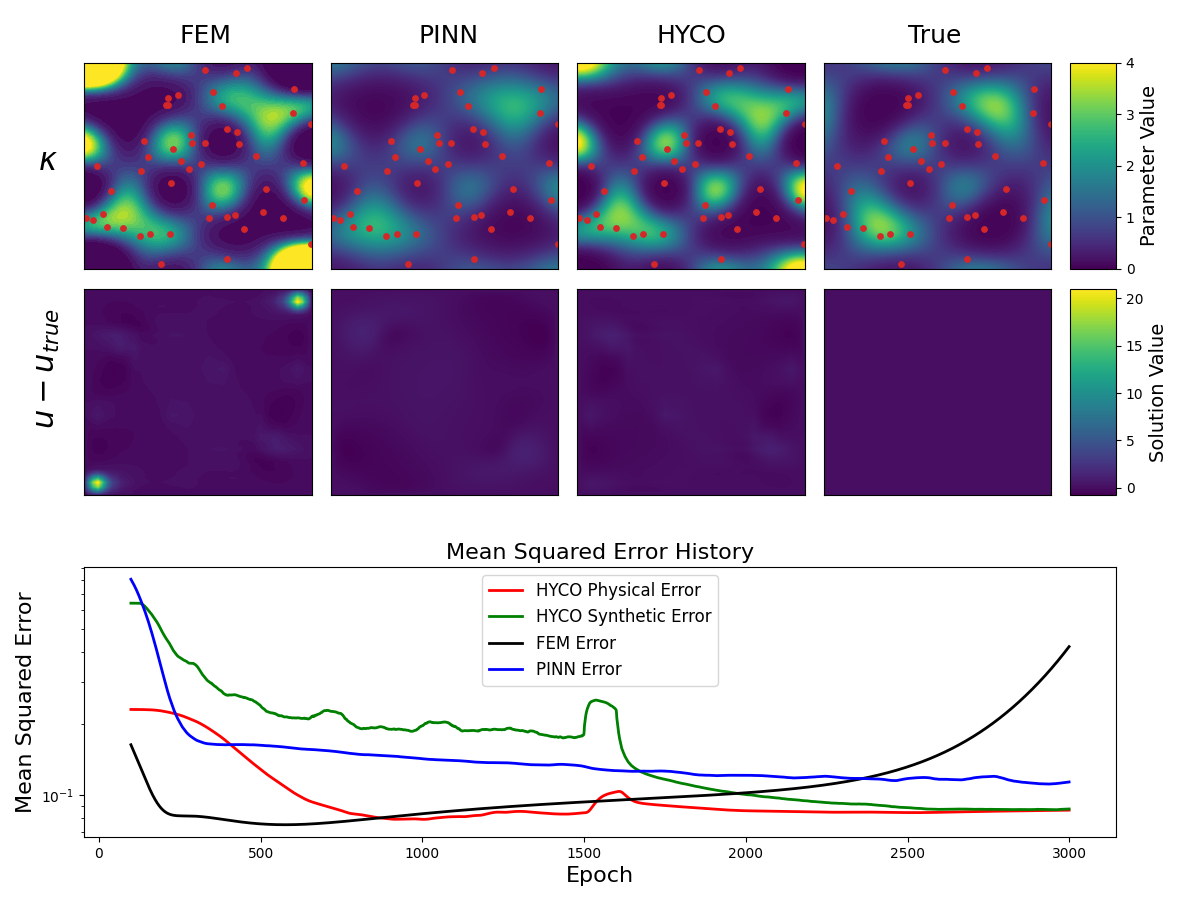
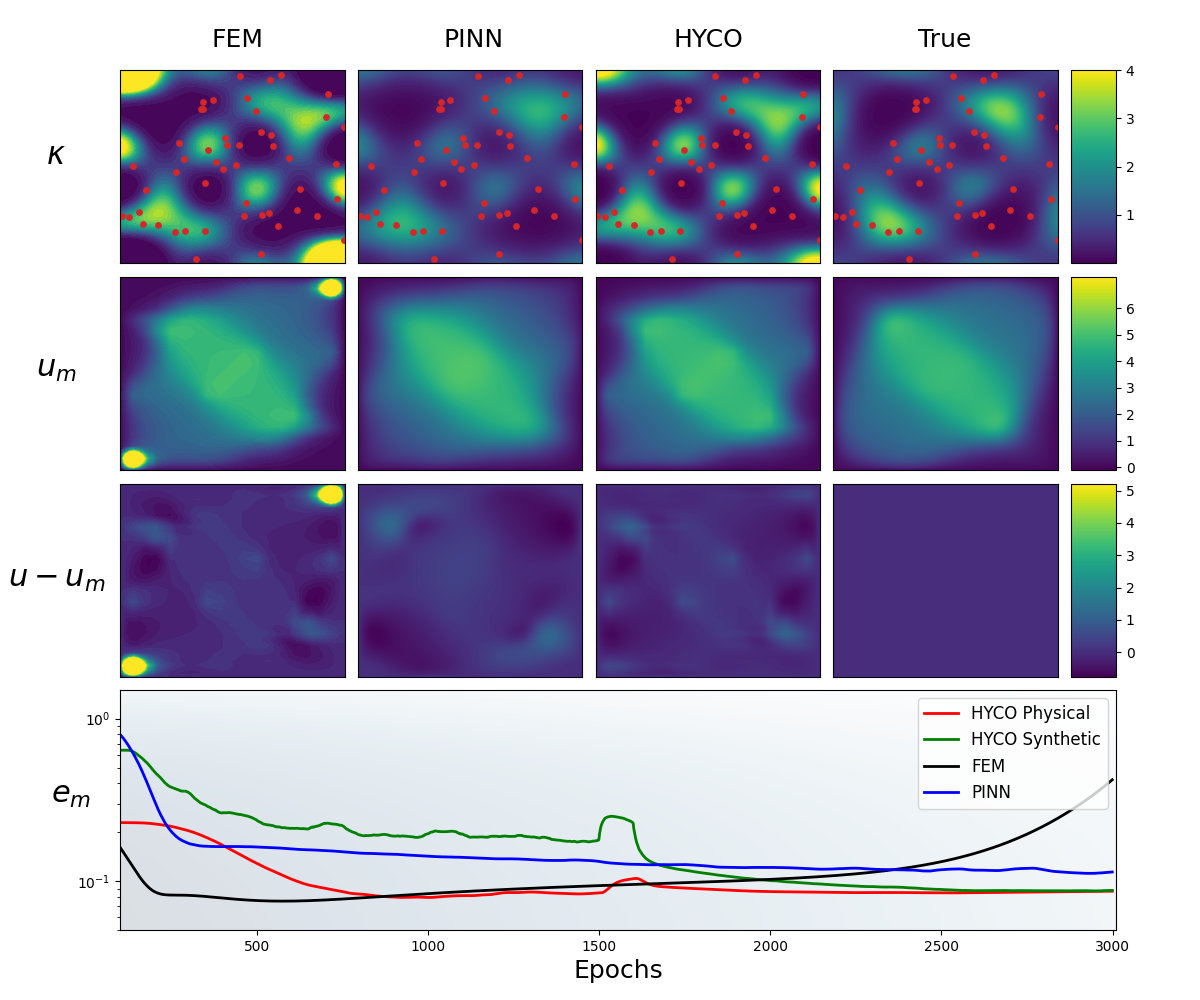
Improved plotting

diff --git a/src/tools/plotting.py b/src/tools/plotting.py
@@ -77,9 +77,9 @@ def plot(
         # Create figure layout: 4 columns for predictions + a colorbar.
         fig = plt.figure(figsize=(12, 12))
         gs_top = fig.add_gridspec(
-            3, 5, width_ratios=[1, 1, 1, 1, 0.2],
-            left=0.10, right=0.93, top=0.93, bottom=0.45,
-            wspace=0.1, hspace=0.1
+            4, 5, width_ratios=[1, 1, 1, 1, 0.2],
+            left=0.10, right=0.93, top=0.93, bottom=0.27,
+            wspace=0.07, hspace=0.07
         )
 
         # Row 1: Kappa plots.
@@ -139,49 +139,84 @@ def plot(
             
         N = int(np.sqrt(u_hyb_phys.shape[0]))
         sol = [N, N]
+        vmin_sol = min((u_hyb_phys).min(), (u_fem).min(), (u_pinn).min())
+        vmax_sol = max((u_hyb_phys).max(), (u_fem).max(), (u_pinn).max())
         vmin_err = min((u_hyb_phys - u_true).min(), (u_fem - u_true).min(), (u_pinn - u_true).min())
         vmax_err = max((u_hyb_phys - u_true).max(), (u_fem - u_true).max(), (u_pinn - u_true).max())
         xx = jnp.linspace(domain[0], domain[1], N)
         yy = jnp.linspace(domain[0], domain[1], N)
         # Plot the solutions 
         ax8 = fig.add_subplot(gs_top[2, 0])
-        cf8 = ax8.contourf(xx, yy, u_fem.reshape(sol) - u_true.reshape(sol), levels=100,
-                                vmin=vmin_err, vmax=vmax_err, cmap="viridis")
+        cf8 = ax8.contourf(xx, yy, u_fem.reshape(sol), levels=100,
+                                vmin=vmin_sol, vmax=vmax_sol, cmap="viridis")
         ax8.set_xticks([])
         ax8.set_yticks([])
 
         ax9 = fig.add_subplot(gs_top[2, 1])
-        cf9 = ax9.contourf(xx, yy, u_pinn.reshape(sol) - u_true.reshape(sol), levels=100,
-                                vmin=vmin_err, vmax=vmax_err, cmap="viridis")
+        cf9 = ax9.contourf(xx, yy, u_pinn.reshape(sol), levels=100,
+                                vmin=vmin_sol, vmax=vmax_sol, cmap="viridis")
         ax9.set_xticks([])
         ax9.set_yticks([])
 
         ax10 = fig.add_subplot(gs_top[2, 2])
-        cf10 = ax10.contourf(xx, yy, u_hyb_phys.reshape(sol) - u_true.reshape(sol), levels=100,
-                                vmin=vmin_err, vmax=vmax_err, cmap="viridis")
+        cf10 = ax10.contourf(xx, yy, u_hyb_phys.reshape(sol), levels=100,
+                                vmin=vmin_sol, vmax=vmax_sol, cmap="viridis")
         ax10.set_xticks([])
         ax10.set_yticks([])
 
         ax11 = fig.add_subplot(gs_top[2, 3])
-        cf11 = ax11.contourf(xx, yy, (u_true.reshape(sol) - u_true.reshape(sol)), levels=100,
-                                vmin=vmin_err, vmax=vmax_err, cmap="viridis")
+        cf11 = ax11.contourf(xx, yy, (u_true.reshape(sol)), levels=100,
+                                vmin=vmin_sol, vmax=vmax_sol, cmap="viridis")
         ax11.set_xticks([])
         ax11.set_yticks([])
-        
+
+        ax12 = fig.add_subplot(gs_top[3, 0])
+        cf12 = ax12.contourf(xx, yy, u_fem.reshape(sol) - u_true.reshape(sol), levels=100,
+                                vmin=vmin_err, vmax=vmax_err, cmap="viridis")
+        ax12.set_xticks([])
+        ax12.set_yticks([])
+
+        ax13 = fig.add_subplot(gs_top[3, 1])
+        cf13 = ax13.contourf(xx, yy, u_pinn.reshape(sol) - u_true.reshape(sol), levels=100,
+                                vmin=vmin_err, vmax=vmax_err, cmap="viridis")
+        ax13.set_xticks([])
+        ax13.set_yticks([])
+
+        ax14 = fig.add_subplot(gs_top[3, 2])
+        cf14 = ax14.contourf(xx, yy, u_hyb_phys.reshape(sol) - u_true.reshape(sol), levels=100,
+                                vmin=vmin_err, vmax=vmax_err, cmap="viridis")
+        ax14.set_xticks([])
+        ax14.set_yticks([])
+
+        ax15 = fig.add_subplot(gs_top[3, 3])
+        cf15 = ax15.contourf(xx, yy, (u_true.reshape(sol) - u_true.reshape(sol)), levels=100,
+                                vmin=vmin_err, vmax=vmax_err, cmap="viridis")
+        ax15.set_xticks([])
+        ax15.set_yticks([])
+
         # Add a unified colorbar for gaussians
         ax_cb = fig.add_subplot(gs_top[:2, 4])
         norm = Normalize(vmin=vmin, vmax=vmax)
         mappable = ScalarMappable(norm=norm, cmap="viridis")
         mappable.set_array([])
         cb = fig.colorbar(mappable, cax=ax_cb)
+        cb.set_ticks([1.0, 2.0, 3.0, 4.0, 5.0])
 
         # Add a unified colorbar for solutions
         
         ax_cb = fig.add_subplot(gs_top[2:3, 4])
+        norm = Normalize(vmin=vmin_sol, vmax=vmax_sol)
+        mappable = ScalarMappable(norm=norm, cmap="viridis")
+        mappable.set_array([])
+        cb = fig.colorbar(mappable, cax=ax_cb)
+        cb.set_ticks([-1.0, 0.0, 1.0, 2.0])
+
+        ax_cb = fig.add_subplot(gs_top[3:4, 4])
         norm = Normalize(vmin=vmin_err, vmax=vmax_err)
         mappable = ScalarMappable(norm=norm, cmap="viridis")
         mappable.set_array([])
         cb = fig.colorbar(mappable, cax=ax_cb)
+        cb.set_ticks([0, 1])
 
         #  u'#1f77b4', u'#ff7f0e', u'#2ca02c', u'#d62728'
 
@@ -217,7 +252,10 @@ def plot(
             
             window = 100
             # Plot the loss history.
-            ax_loss = fig.add_axes([0.07, 0.07, 0.86, 0.3])
+            ax_loss = fig.add_axes([0.1, 0.07, 0.83, 0.191])
+            gradient = np.linspace(1, 0.6, 256)  # from white to light blue
+            gradient = np.outer(gradient, gradient)  # diagonal fade
+            
             x_hyb, avg_hyb, std_hyb = moving_avg_std(hyb_phys_loss_hist, window=window)
             ax_loss.plot(x_hyb, avg_hyb, label="HYCO Physical", color = 'red', lw = 2)
 
@@ -231,7 +269,8 @@ def plot(
             x_pinn, avg_pinn, std_pinn = moving_avg_std(pinn_loss_hist, window=window)
             ax_loss.plot(x_pinn, avg_pinn, label="PINN", color = 'blue', lw = 2)
             # ax_loss.fill_between(x_synth, avg_synth - std_synth, avg_synth + std_synth, alpha=0.3)
-
+            ax_loss.imshow(gradient, extent = [100, 3010, 0.05, 1.5], aspect='auto', cmap='Blues', origin='lower', zorder=0, alpha = 0.1)
+            ax_loss.imshow(gradient, extent = [100, 3010, 0.05, 1.5], aspect='auto', cmap='Grays', origin='lower', zorder=0, alpha = 0.05)
             # set yrange to not be too far from the average
             avg_min = min(avg_phys.min(), avg_pinn.min(), avg_hyb.min(), avg_synth.min())
             avg_max = max(avg_phys.max(), avg_pinn.max(), avg_hyb.max(), avg_synth.max())
@@ -240,19 +279,20 @@ def plot(
 
             ax_loss.set_yscale("log")
             ax_loss.set_xlabel("Epochs", fontsize=18)
-            ax_loss.set_ylabel(r"Normalized L2 Error $e_m$", fontsize=18)
-            ax_loss.legend(fontsize=12)
+            ax_loss.set_ylabel(r"$e_m$", fontsize=22, rotation=0)
+            ax_loss.legend(fontsize=12, loc='upper right')
 
             # Add column labels (above the grid).
             # The grid spans from left=0.07 to right=0.93 (width = 0.86). We split this into 4 columns.
-            col_centers = [0.07 + 0.81 * (i + 0.5) / 4 for i in range(4)]
+            col_centers = [0.1 + 0.785 * (i + 0.5) / 4 for i in range(4)]
             for label, x_pos in zip(["FEM", "PINN", "HYCO", "True"], col_centers):
                 fig.text(x_pos, 0.96, label, ha="center", va="center", fontsize=18)
 
             # Add row labels on the left (at fixed positions).
-            fig.text(0.015, 0.86, r"$\kappa$", ha="center", va="center", fontsize=22)
-            fig.text(0.015, 0.69, r"$\eta$", ha="center", va="center", fontsize=22)
-            fig.text(0.015, 0.525, r"$u - u_{true}$", ha="center", va="center", fontsize=22, rotation=90)
+            fig.text(0.047, 0.845, r"$\kappa$", ha="center", va="center", fontsize=22)
+            fig.text(0.047, 0.685, r"$\eta$", ha="center", va="center", fontsize=22)
+            fig.text(0.047, 0.515, r"$u_m$", ha="center", va="center", fontsize=22)
+            fig.text(0.047, 0.355, r"$u - u_m$", ha="center", va="center", fontsize=22)
     else:
         """
         Creates a static plot showing the final predictions for Physics, PINN, Hybrid, and True.
@@ -278,16 +318,17 @@ def plot(
         kappa_pinn = kappa_func(final_pinn, xx_flat, yy_flat)
         kappa_hyb  = kappa_func(final_hyb,  xx_flat, yy_flat)
         kappa_true = kappa_func(final_true, xx_flat, yy_flat)
+
         # Compute the global min/max from the true predictions.
         vmin = float(jnp.floor(jnp.min(jnp.array([kappa_true]))))
         vmax = float(jnp.ceil(jnp.max(jnp.array([kappa_true]))))
 
         # Create figure layout: 4 columns for predictions + a colorbar.
-        fig = plt.figure(figsize=(12, 9))
+        fig = plt.figure(figsize=(12, 10))
         gs_top = fig.add_gridspec(
-            2, 5, width_ratios=[1, 1, 1, 1, 0.2],
-            left=0.07, right=0.93, top=0.93, bottom=0.45,
-            wspace=0.1, hspace=0.1
+            3, 5, width_ratios=[1, 1, 1, 1, 0.2],
+            left=0.10, right=0.93, top=0.93, bottom=0.323,
+            wspace=0.07, hspace=0.07
         )
 
         # Row 1: Kappa plots.
@@ -315,6 +356,8 @@ def plot(
         ax3.set_xticks([])
         ax3.set_yticks([])
 
+    
+
         # Scatter training data on all subplots.
         for ax in [ax0, ax1, ax2, ax3]:
             ax.scatter(pts_train[:, 0], pts_train[:, 1], marker="o",
@@ -322,51 +365,84 @@ def plot(
             
         N = int(np.sqrt(u_hyb_phys.shape[0]))
         sol = [N, N]
-        vmin_err = min((u_hyb_phys - u_true).min(), (u_fem - u_true).min(), (u_pinn - u_true).min())
-        vmax_err = max((u_hyb_phys - u_true).max(), (u_fem - u_true).max(), (u_pinn - u_true).max())
+        vmin_sol = min((u_hyb_phys).min(), (u_pinn).min())
+        vmax_sol = max((u_hyb_phys).max(), (u_pinn).max()) + 2
+        vmin_err = min((u_hyb_phys - u_true).min(), (u_pinn - u_true).min())
+        vmax_err = max((u_hyb_phys - u_true).max(), (u_pinn - u_true).max()) + 4
         xx = jnp.linspace(domain[0], domain[1], N)
         yy = jnp.linspace(domain[0], domain[1], N)
         # Plot the solutions 
         ax8 = fig.add_subplot(gs_top[1, 0])
-        cf8 = ax8.contourf(xx, yy, u_fem.reshape(sol) - u_true.reshape(sol), levels=100,
-                                vmin=vmin_err, vmax=vmax_err, cmap="viridis")
+        cf8 = ax8.contourf(xx, yy, u_fem.reshape(sol), levels=200,
+                                vmin=vmin_sol, vmax=vmax_sol, cmap="viridis")
         ax8.set_xticks([])
         ax8.set_yticks([])
 
         ax9 = fig.add_subplot(gs_top[1, 1])
-        cf9 = ax9.contourf(xx, yy, u_pinn.reshape(sol) - u_true.reshape(sol), levels=100,
-                                vmin=vmin_err, vmax=vmax_err, cmap="viridis")
+        cf9 = ax9.contourf(xx, yy, u_pinn.reshape(sol), levels=200,
+                                vmin=vmin_sol, vmax=vmax_sol, cmap="viridis")
         ax9.set_xticks([])
         ax9.set_yticks([])
 
         ax10 = fig.add_subplot(gs_top[1, 2])
-        cf10 = ax10.contourf(xx, yy, u_hyb_phys.reshape(sol) - u_true.reshape(sol), levels=100,
-                                vmin=vmin_err, vmax=vmax_err, cmap="viridis")
+        cf10 = ax10.contourf(xx, yy, u_hyb_phys.reshape(sol), levels=200,
+                                vmin=vmin_sol, vmax=vmax_sol, cmap="viridis")
         ax10.set_xticks([])
         ax10.set_yticks([])
 
         ax11 = fig.add_subplot(gs_top[1, 3])
-        cf11 = ax11.contourf(xx, yy, (u_true.reshape(sol) - u_true.reshape(sol)), levels=100,
-                                vmin=vmin_err, vmax=vmax_err, cmap="viridis")
+        cf11 = ax11.contourf(xx, yy, (u_true.reshape(sol)), levels=200,
+                                vmin=vmin_sol, vmax=vmax_sol, cmap="viridis")
         ax11.set_xticks([])
         ax11.set_yticks([])
-        
+
+        ax12 = fig.add_subplot(gs_top[2, 0])
+        cf12 = ax12.contourf(xx, yy, u_fem.reshape(sol) - u_true.reshape(sol), levels=200,
+                                vmin=vmin_err, vmax=vmax_err, cmap="viridis")
+        ax12.set_xticks([])
+        ax12.set_yticks([])
+
+        ax13 = fig.add_subplot(gs_top[2, 1])
+        cf13 = ax13.contourf(xx, yy, u_pinn.reshape(sol) - u_true.reshape(sol), levels=200,
+                                vmin=vmin_err, vmax=vmax_err, cmap="viridis")
+        ax13.set_xticks([])
+        ax13.set_yticks([])
+
+        ax14 = fig.add_subplot(gs_top[2, 2])
+        cf14 = ax14.contourf(xx, yy, u_hyb_phys.reshape(sol) - u_true.reshape(sol), levels=100,
+                                vmin=vmin_err, vmax=vmax_err, cmap="viridis")
+        ax14.set_xticks([])
+        ax14.set_yticks([])
+
+        ax15 = fig.add_subplot(gs_top[2, 3])
+        cf15 = ax15.contourf(xx, yy, (u_true.reshape(sol) - u_true.reshape(sol)), levels=100,
+                                vmin=vmin_err, vmax=vmax_err, cmap="viridis")
+        ax15.set_xticks([])
+        ax15.set_yticks([])
+
         # Add a unified colorbar for gaussians
         ax_cb = fig.add_subplot(gs_top[:1, 4])
         norm = Normalize(vmin=vmin, vmax=vmax)
         mappable = ScalarMappable(norm=norm, cmap="viridis")
         mappable.set_array([])
         cb = fig.colorbar(mappable, cax=ax_cb)
-        cb.set_label("Parameter Value", fontsize=14)
+        cb.set_ticks([1.0, 2.0, 3.0, 4.0])
 
         # Add a unified colorbar for solutions
         
         ax_cb = fig.add_subplot(gs_top[1:2, 4])
+        norm = Normalize(vmin=vmin_sol, vmax=vmax_sol)
+        mappable = ScalarMappable(norm=norm, cmap="viridis")
+        mappable.set_array([])
+        cb = fig.colorbar(mappable, cax=ax_cb)
+        cb.set_ticks([0.0, 1.0, 2.0, 3.0, 4.0, 5, 6])
+
+        ax_cb = fig.add_subplot(gs_top[2:3, 4])
         norm = Normalize(vmin=vmin_err, vmax=vmax_err)
         mappable = ScalarMappable(norm=norm, cmap="viridis")
         mappable.set_array([])
         cb = fig.colorbar(mappable, cax=ax_cb)
-        cb.set_label("Solution Value", fontsize=14)
+        cb.set_ticks([0, 1, 2, 3, 4, 5])
 
         #  u'#1f77b4', u'#ff7f0e', u'#2ca02c', u'#d62728'
 
@@ -377,10 +453,9 @@ def plot(
             mappable = ScalarMappable(norm=norm, cmap="viridis")
             mappable.set_array([])
             cb = fig.colorbar(mappable, cax=ax_cb)
-            cb.set_label("Parameter Value", fontsize=14)
 
             # Plot the loss history.
-            ax_loss = fig.add_axes([0.07, 0.07, 0.86, 0.3])
+            ax_loss = fig.add_axes([0.07, 0.07, 0.86, 0.29])
             ax_loss.plot(phys_loss_hist, label="FEM")
             ax_loss.plot(pinn_loss_hist, label="PINN", linestyle=":")
             ax_loss.plot(hyb_phys_loss_hist, label="HYCO", linestyle="--")
@@ -403,29 +478,25 @@ def plot(
             
             window = 100
             # Plot the loss history.
-            ax_loss = fig.add_axes([0.07, 0.07, 0.86, 0.3])
-            # Plot the loss history with moving average and shading.
-
+            ax_loss = fig.add_axes([0.1, 0.07, 0.83, 0.24])
+            gradient = np.linspace(1, 0.6, 256)  # from white to light blue
+            gradient = np.outer(gradient, gradient)  # diagonal fade
+            
             x_hyb, avg_hyb, std_hyb = moving_avg_std(hyb_phys_loss_hist, window=window)
-            ax_loss.plot(x_hyb, avg_hyb, label="HYCO Physical Error", color = 'red', lw = 2)
+            ax_loss.plot(x_hyb, avg_hyb, label="HYCO Physical", color = 'red', lw = 2)
 
             x_synth, avg_synth, std_synth = moving_avg_std(hyb_synth_loss_hist, window=window)
-            ax_loss.plot(x_synth, avg_synth, label="HYCO Synthetic Error", color = 'green', lw = 2)
+            ax_loss.plot(x_synth, avg_synth, label="HYCO Synthetic", color = 'green', lw = 2)
 
             x_phys, avg_phys, std_phys = moving_avg_std(phys_loss_hist, window=window)
-            ax_loss.plot(x_phys, avg_phys, label="FEM Error", color = 'black', lw = 2)
+            ax_loss.plot(x_phys, avg_phys, label="FEM", color = 'black', lw = 2)
             # ax_loss.fill_between(x_phys, avg_phys - std_phys, avg_phys + std_phys, alpha=0.3)
 
             x_pinn, avg_pinn, std_pinn = moving_avg_std(pinn_loss_hist, window=window)
-            ax_loss.plot(x_pinn, avg_pinn, label="PINN Error", color = 'blue', lw = 2)
-            # ax_loss.fill_between(x_pinn, avg_pinn - std_pinn, avg_pinn + std_pinn, alpha=0.3)
-
-            
-            # ax_loss.fill_between(x_hyb, avg_hyb - std_hyb, avg_hyb + std_hyb, alpha=0.3)
-
-            
+            ax_loss.plot(x_pinn, avg_pinn, label="PINN", color = 'blue', lw = 2)
             # ax_loss.fill_between(x_synth, avg_synth - std_synth, avg_synth + std_synth, alpha=0.3)
-
+            ax_loss.imshow(gradient, extent = [100, 3010, 0.05, 1.5], aspect='auto', cmap='Blues', origin='lower', zorder=0, alpha = 0.1)
+            ax_loss.imshow(gradient, extent = [100, 3010, 0.05, 1.5], aspect='auto', cmap='Grays', origin='lower', zorder=0, alpha = 0.05)
             # set yrange to not be too far from the average
             avg_min = min(avg_phys.min(), avg_pinn.min(), avg_hyb.min(), avg_synth.min())
             avg_max = max(avg_phys.max(), avg_pinn.max(), avg_hyb.max(), avg_synth.max())
@@ -433,20 +504,20 @@ def plot(
         
 
             ax_loss.set_yscale("log")
-            ax_loss.set_title("Mean Squared Error History", fontsize=16)
-            ax_loss.set_xlabel("Epoch", fontsize=16)
-            ax_loss.set_ylabel("Mean Squared Error", fontsize=16)
-            ax_loss.legend(fontsize=12)
+            ax_loss.set_xlabel("Epochs", fontsize=18)
+            ax_loss.set_ylabel(r"$e_m$", fontsize=22, rotation=0)
+            ax_loss.legend(fontsize=12, loc='upper right')
 
             # Add column labels (above the grid).
             # The grid spans from left=0.07 to right=0.93 (width = 0.86). We split this into 4 columns.
-            col_centers = [0.07 + 0.81 * (i + 0.5) / 4 for i in range(4)]
+            col_centers = [0.1 + 0.785 * (i + 0.5) / 4 for i in range(4)]
             for label, x_pos in zip(["FEM", "PINN", "HYCO", "True"], col_centers):
                 fig.text(x_pos, 0.96, label, ha="center", va="center", fontsize=18)
 
             # Add row labels on the left (at fixed positions).
-            fig.text(0.04, 0.82, r"$\kappa$", ha="center", va="center", fontsize=22)
-            fig.text(0.04, 0.59, r"$u - u_{true}$", ha="center", va="center", fontsize=22, rotation=90)
+            fig.text(0.047, 0.845, r"$\kappa$", ha="center", va="center", fontsize=22)
+            fig.text(0.047, 0.63, r"$u_m$", ha="center", va="center", fontsize=22)
+            fig.text(0.047, 0.42, r"$u - u_m$", ha="center", va="center", fontsize=22)
 
 
         
